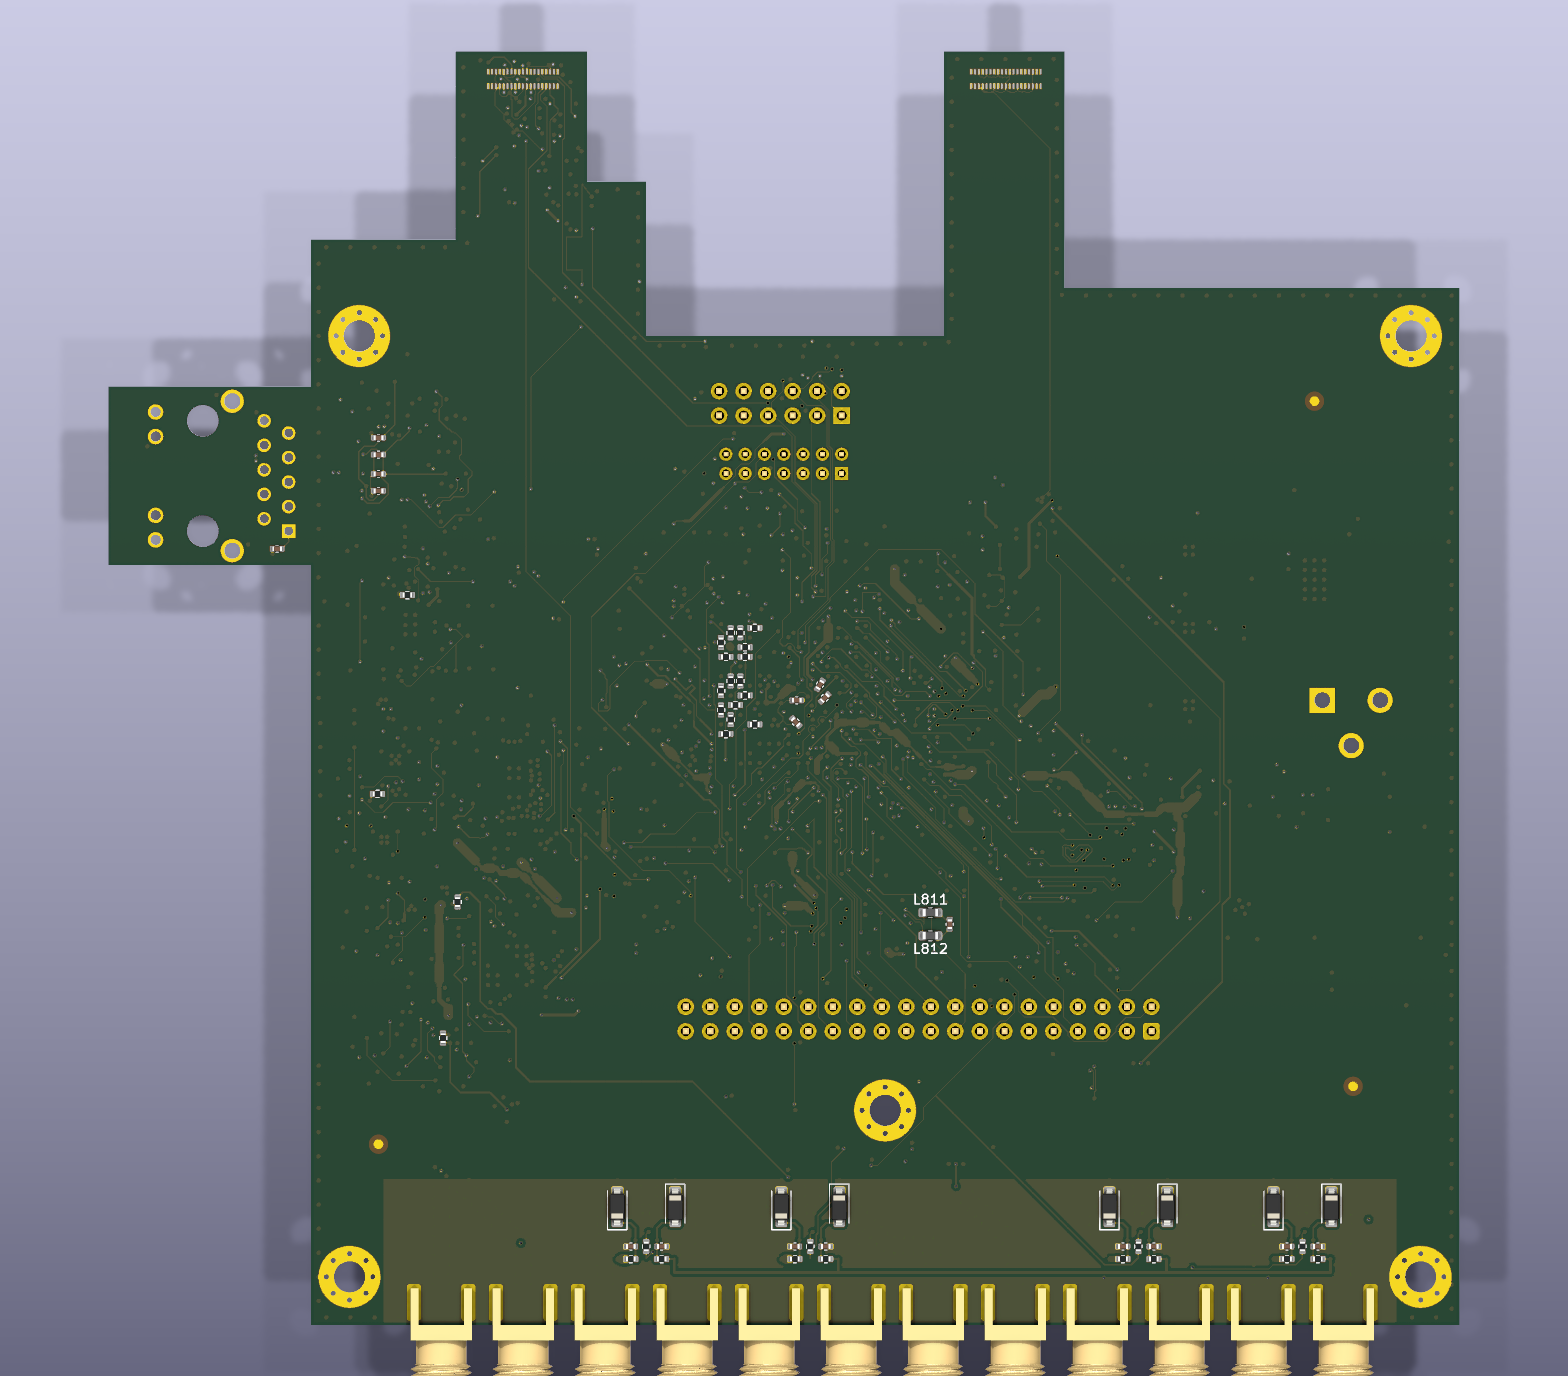
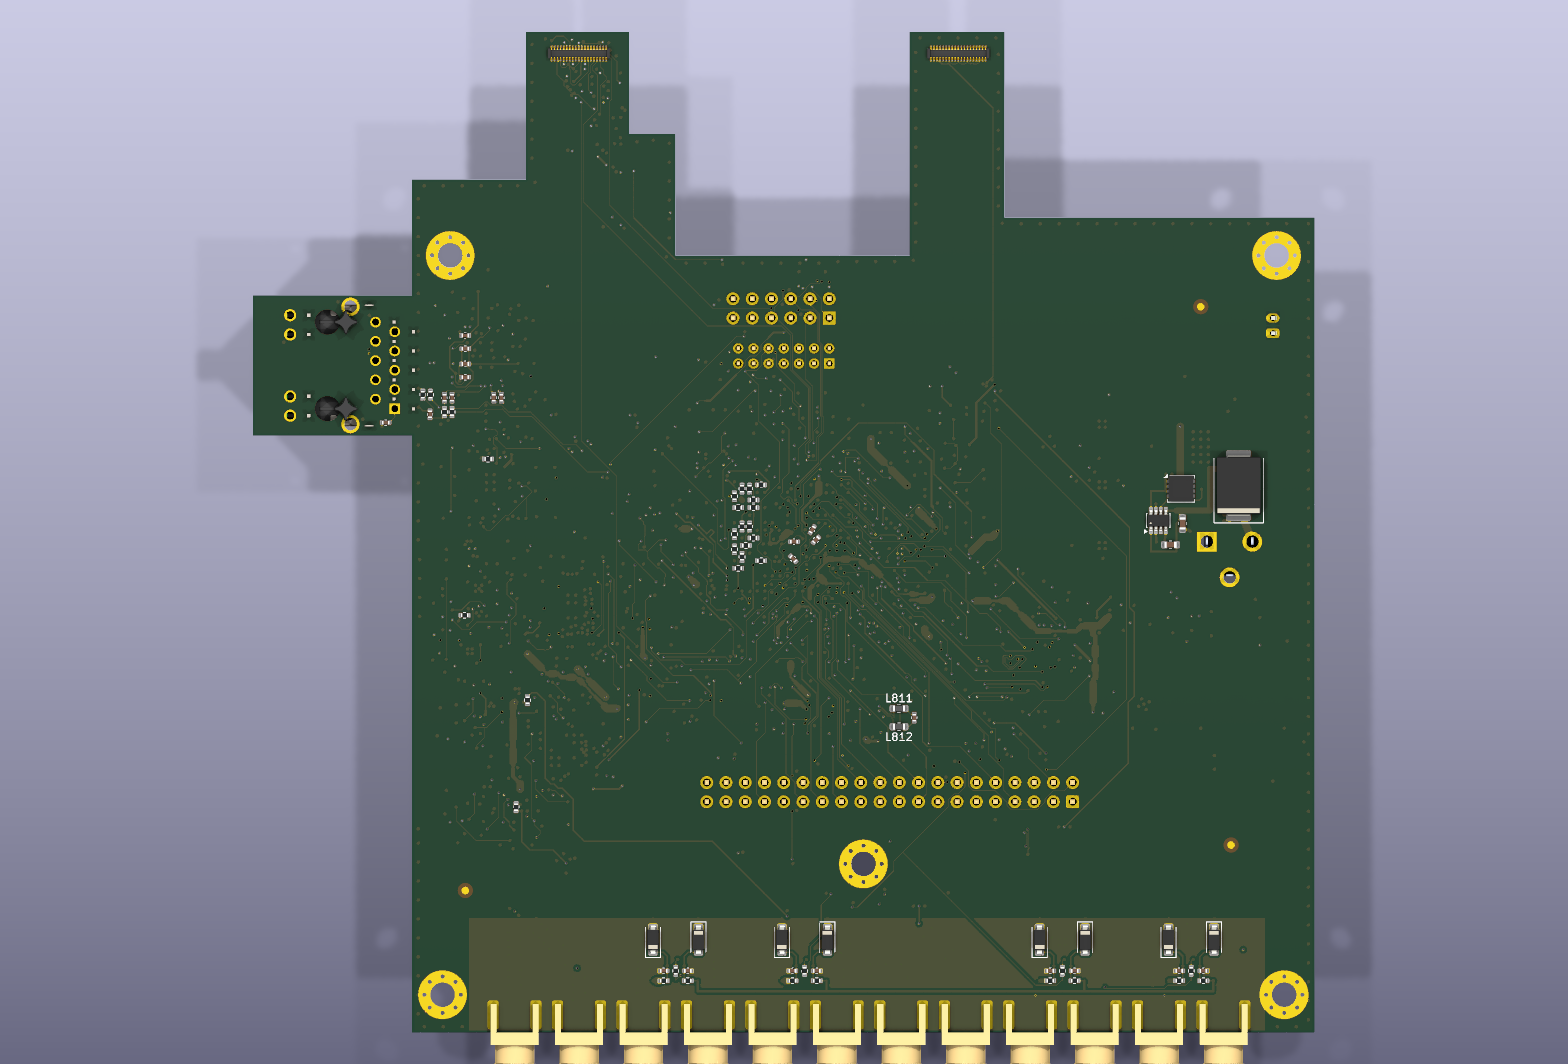
board: real 3D models for the 26 parts that rendered without a body (Gemini task 20)
KiCad library STEPs for the BGA, QFNs, LFCSP, HSOP and WQFN parts; EasyEDA models
(local cache) for the baluns, Si549, PTC, power inductors, barrel jack, IAS
connectors and RJ45. README board renders regenerated (Rev06 + models).

Changed region(s): [[0.0312, 0.0, 0.9688, 1.0], [0.75, 0.2791, 0.7812, 0.3102], [0.625, 0.3722, 0.6562, 0.4032]]

diff --git a/docs/3D_MODELS.md b/docs/3D_MODELS.md
@@ -50,3 +50,5 @@ All **26** missing or broken functional component instances (across **14** uniqu
 All placements, orientations (`rotate_deg`), offsets (`offset_mm`), pin-1 polarity indicators, and board-edge connector protrusions were visually inspected by patching a temporary copy of `CSI2-KRIA-KV260_Rev01.kicad_pcb` outside the repository and running `kicad-cli pcb render` (top-down, bottom-side, isometric, and zoomed close-ups on `U1101`/`T701`/`Y401`/`U501`, `U1001`/`U1007`/`F1001`/`L1010–L1030`/`J1001`, `U1201`/`J1201`, `U901`–`U904`, and `J101`/`J102`). Real repository `*.kicad_pcb` files were left untouched.
 
 The models in `mech/models3d/` are copies of KiCad 10's official 3D library (KiCad libraries licence: CC-BY-SA 4.0 with the KiCad libraries exception), kept here because the installed KiCad on the build machine has no 3D-model package; attribution: the KiCad Library Team.
+
+**Applied (14 Nov 2026, Rev06):** all 26 mappings are written into `CSI2-KRIA-KV260_Rev01.kicad_pcb`. Models in the repo are referenced as `${KIPRJMOD}/mech/models3d/...`; the EasyEDA ones as `${KIPRJMOD}/_work/mech/cache/models3d/...` (git-ignored: a fresh clone renders those parts without a body until `easyeda2kicad` fetches them again).
